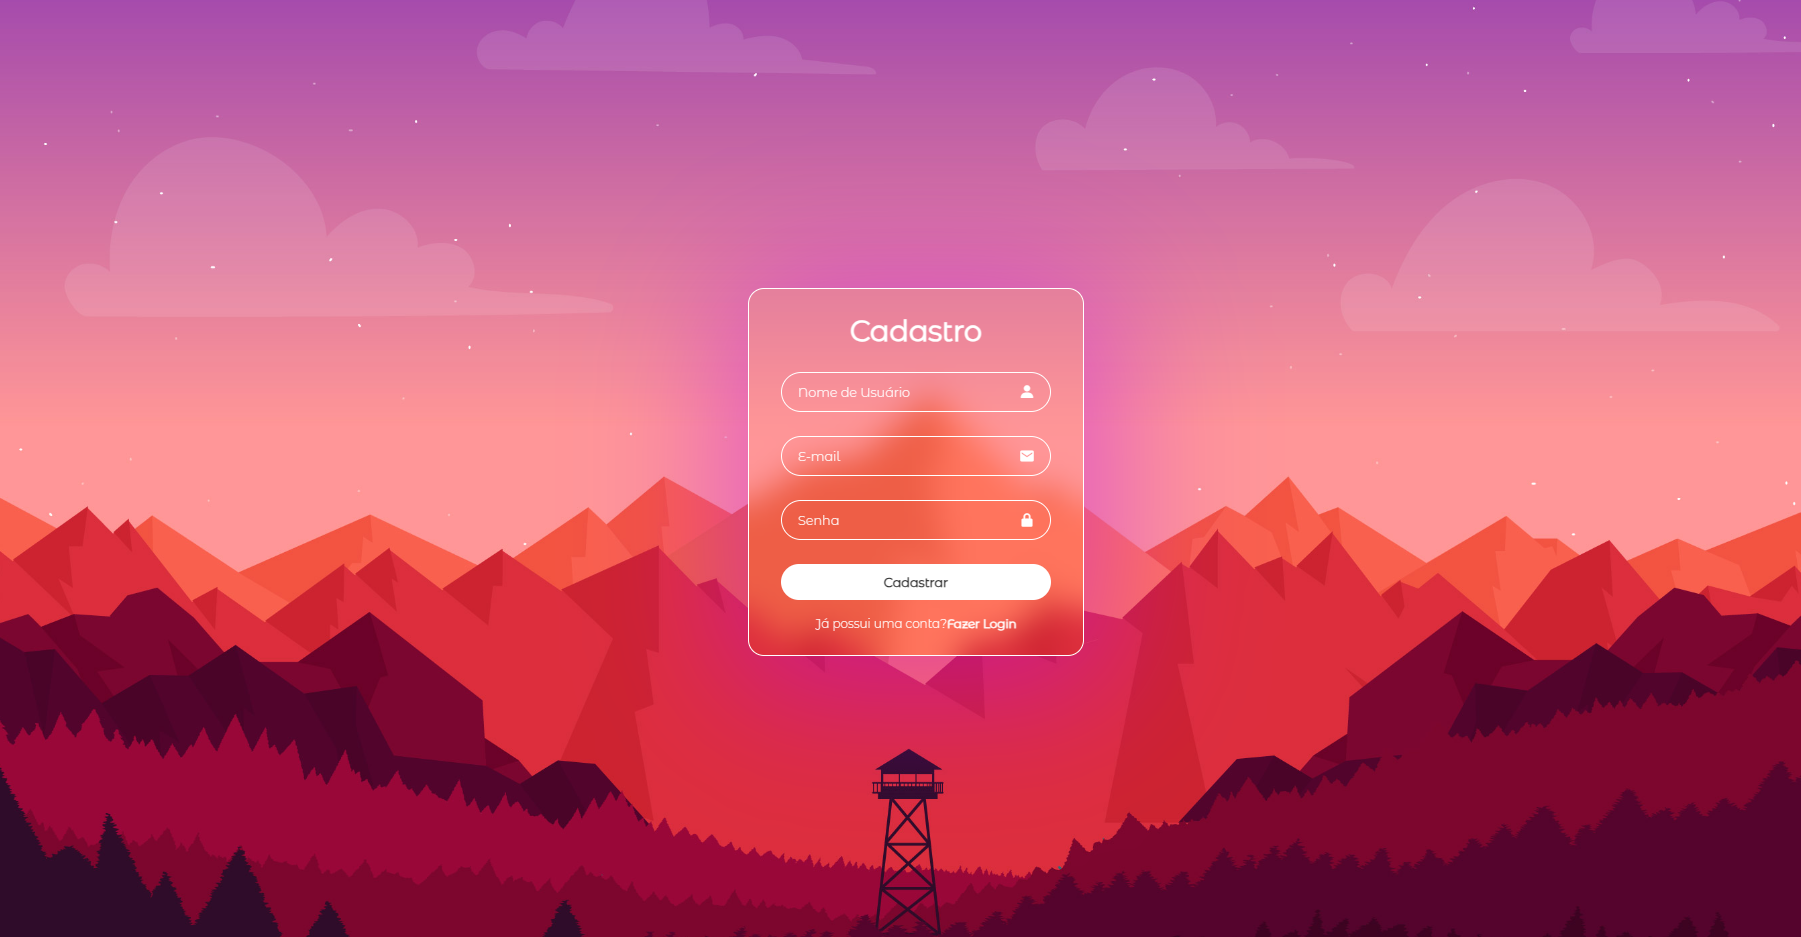
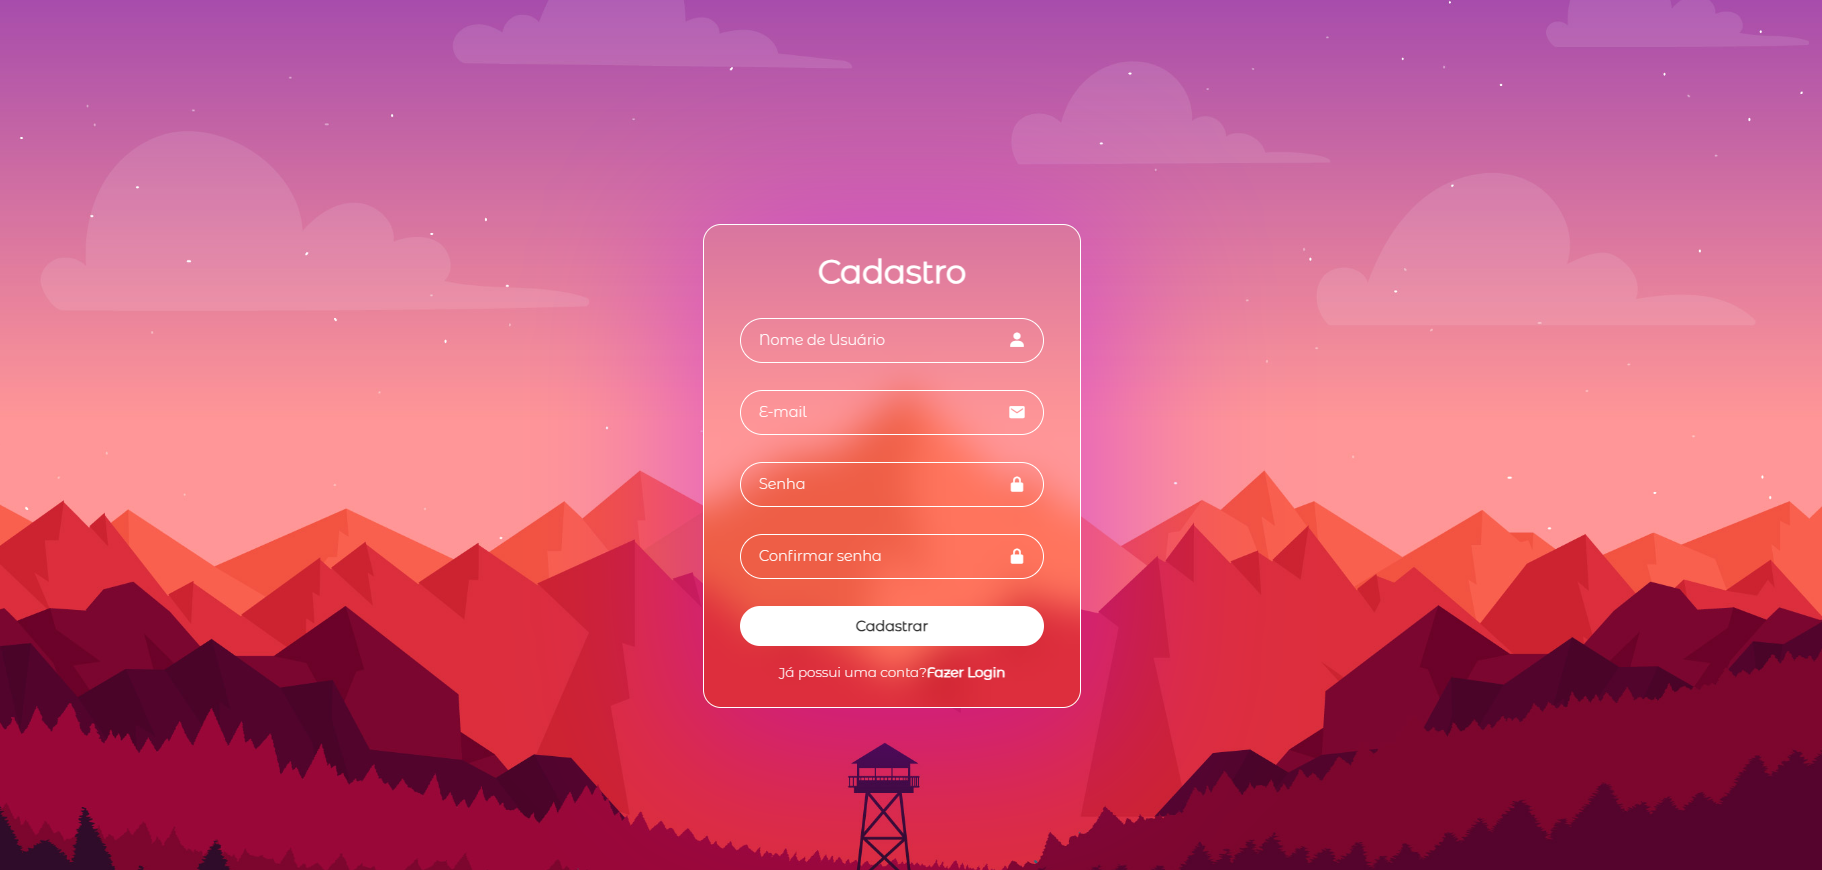
validação de nome de usuário e senha

Changed region(s): [[0.0, 0.2793, 1.0, 1.0], [0.7463, 0.7138, 0.7773, 0.7759]]

diff --git a/signUp.html b/signUp.html
@@ -1,0 +1,52 @@
+<!DOCTYPE html>
+<html lang="pt-br">
+<head>
+    <meta charset="UTF-8">
+    <meta name="viewport" content="width=device-width, initial-scale=1.0">
+    <title>Registrer Form</title>
+    <link rel="stylesheet" href="style.css">
+    <link href='https://unpkg.com/boxicons@2.1.4/css/boxicons.min.css' rel='stylesheet'>
+    <script type="module" src="https://unpkg.com/ionicons@7.1.0/dist/ionicons/ionicons.esm.js"></script>
+    <script nomodule src="https://unpkg.com/ionicons@7.1.0/dist/ionicons/ionicons.js"></script>
+    
+</head>
+<body>
+    
+    <div class="wrapper">
+        <form action="" name="formfill" onsubmit="return validation()">
+            <h1>Cadastro</h1>
+            <p id="result" class="result" ></p>
+            <div class="input-box">
+                <input type="text" placeholder="Nome de Usuário" name="username">
+                <i class='bx bxs-user'></i>
+            </div>
+            <div class="input-box">
+                <p id="result" class="result" ></p>
+                <input type="text" placeholder="E-mail" name="email">
+                <i class='bx bxs-envelope'></i>
+            </div>
+            <div class="input-box">
+                <p id="result" class="result" ></p>
+                <input type="password"placeholder="Senha" name="senha">
+                <i class='bx bxs-lock-alt'></i>
+                
+            </div>
+            <div class="input-box">
+                <p id="result" class="result" ></p>
+                <input type="password"placeholder="Confirmar senha" name="Csenha">
+                <i class='bx bxs-lock-alt'></i>
+                
+            </div>
+         
+            <button type="submit"class="btn">Cadastrar</button>
+
+            <div class="registrer-link">
+                <p>Já possui uma conta?<a
+                href="index.html">Fazer Login</a></p>
+            </div>
+        </form>
+    </div>
+
+<script src="script.js"></script>
+</body>
+</html>

diff --git a/script.js b/script.js
@@ -1,0 +1,30 @@
+function validation(){
+    if(document.formfill.username.value==""){
+        document.getElementById("result").innerHTML="Insira um nome de usuário válido*"
+        return false;
+    }
+    else if(document.formfill.username.value.length<6){
+        document.getElementById("result").innerHTML="O nome de usuário deve ter ao menos 6 caracteres*"
+        return false;
+    }
+    else if(document.formfill.email.value==""){
+        document.getElementById("result").innerHTML="Insira um email*"
+        return false;
+    }
+    else if(document.formfill.senha.value==""){
+        document.getElementById("result").innerHTML="Insira uma senha*"
+        return false;
+    }
+    else if(document.formfill.Csenha.value==""){
+        document.getElementById("result").innerHTML = "Confirme a senha"
+        return false;
+    }
+    else if(document.formfill.senha.value.length<8){
+        document.getElementById("result").innerHTML = "A senha deve ter no minimo 8 caracteres"
+        return false;
+    }
+    else if(document.formfill.senha.value!==document.formfill.Csenha.value){
+        document.getElementById("result").innerHTML = "A senhas não são iguais"
+        return false;
+    }
+}

diff --git a/index.html b/index.html
@@ -13,6 +13,7 @@
     <div class="wrapper">
         <form action="">
             <h1>Login</h1>
+   
             <div class="input-box">
                 <input type="text" placeholder="Usuário" required>
                 <i class='bx bxs-user'></i>
@@ -29,11 +30,10 @@
 
             <div class="registrer-link">
                 <p>Não tem uma conta?<a
-                href="singUp.html">Criar conta</a></p>
+                href="signUp.html">Criar conta</a></p>
             </div>
         </form>
     </div>
-
-
+    <script src="script.js"></script>
 </body>
 </html>

diff --git a/style.css b/style.css
@@ -101,3 +101,10 @@ body{
 .registrer-link p a:hover{
     text-decoration: underline;
 }
+#result{
+
+    color: rgb(255, 242, 0);
+    font-weight: 700;
+    position: relative;
+    top: 25px;
+}
